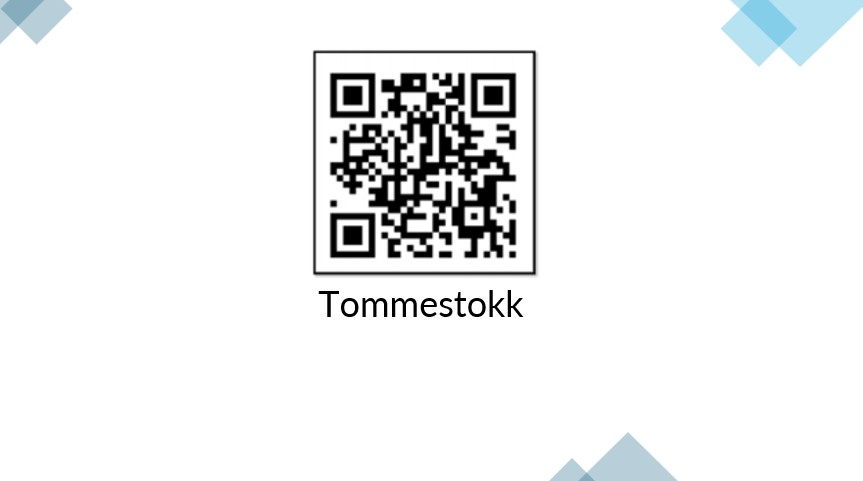
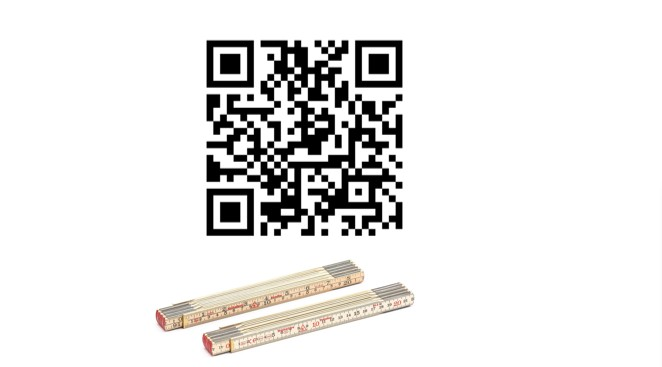
Added the "tommestokk" as an example for test runs

diff --git a/docs/KVIPP/equipment.md b/docs/KVIPP/equipment.md
@@ -10,21 +10,19 @@ sidebar_position: 3
 + Merke eller logo: Merkene kan bidra til rask identifisering av merke og modell.
 + QR-koder: Hvis utstyret har en QR-kode, kan systemet lese denne automatisk, noe som gjør prosessen enda enklere. **Skann en QR-kode** fra DigiQuip, Reginn, Kvipp eller BRAREG, og informasjonen vil bli tolket.
 
-[Test selv her](https://kvipp.it)
-
 ## Hvordan får jeg opp utstyr i Kvipp Bedrift?
 Utstyr legges automatisk til etter hvert som opplæring blir registrert.
 
 ## Merk opp arbeidsutstyr (anbefales)
 Med Kvipp Bedrift kan dere også merke opp utstyr med QR-koder. Med QR-koder kan du gjøre det enklere for ansatte å sjekke status på sin opplæring og dokumentasjon.
 
-Selv om løsningen benytter avanserte biblioteker for kunstig intelligens og maskinlæring, er det viktig å være klar over at det alltid kan oppstå risiko for feilregistrering av informasjon. For eksempel, hvis en person skanner en maskin og overser at at det er feil type, vil dette føre til at maskinen blir registrert feil. Konsekvensene av dette kan bli betydelige, spesielt fordi det kan påvirke dokumentasjonen av opplæring og andre prosesser i ettertid.
+Selv om løsningen benytter avanserte biblioteker for kunstig intelligens og maskinlæring, er det viktig å være klar over at det alltid kan oppstå risiko for feilregistrering av informasjon. For eksempel, hvis en person skanner en maskin og overser at at det er feil type, vil dette føre til at maskinen blir registrert feil. Det betyr at typen som legges til i opplæringsbeviset også blir feil.
 
 **Koble til en QR-kode:**
 Under "tillatelser" i Kvipp Bedrift definerer dere hvem som skal kunne koble til en QR-kode. Denne rollen heter "utstyrseier".
 
 Deretter kan utstyret merkes opp, og dette gjør dere best i felt:
-+ Ta et bilde av utstyret
++ Ta et bilde av utstyret, og sørg for at informasjon om merke og modell er korrekt
 + Velg "koble QR-kode"
 + Ferdig!
 

diff --git a/docs/KVIPP/get_started.md b/docs/KVIPP/get_started.md
@@ -36,6 +36,21 @@ import imageAI from '/img/imageAI.jpg';
 
 <img src={imageAI} style={{width:200}} />
 
+<br/>
+<br/>
+
+Test selv! Skann denne QR-koden for tommestokk:
+
+import tommestokk from '/img/tommestokk.jpg';
+
+<img src={tommestokk} style={{width:400}} />
+
+<br/>
+<br/>
+eller klikk her: ***https://kvipp.it/id/GMTRPFF1***
+
+**Nå kan du teste hvordan registrere opplæring, sjekke og gi opplæring til andre. Husk å identifisere deg selv også.**
+
 ## Opplæringsstatus
 Når både person og utstyr er identifisert, får du opplæringsstatus.
 

diff --git a/i18n/en/docusaurus-plugin-content-docs/current/Kvipp/get_started.md b/i18n/en/docusaurus-plugin-content-docs/current/Kvipp/get_started.md
@@ -37,6 +37,18 @@ import imageAI from '/img/imageAI.jpg';
 
 <img src={imageAI} style={{width:200}} />
 
+Test it! Scan the QR code below:
+
+import tommestokk from '/img/tommestokk.jpg';
+
+<img src={tommestokk} style={{width:400}} />
+
+<br/>
+<br/>
+or click here: ***https://kvipp.it/id/GMTRPFF1***
+
+**Now you can test out how to register, check and give training to others.**
+
 ## Training Status
 Once both the person and equipment are identified, you'll see your training status.
 
